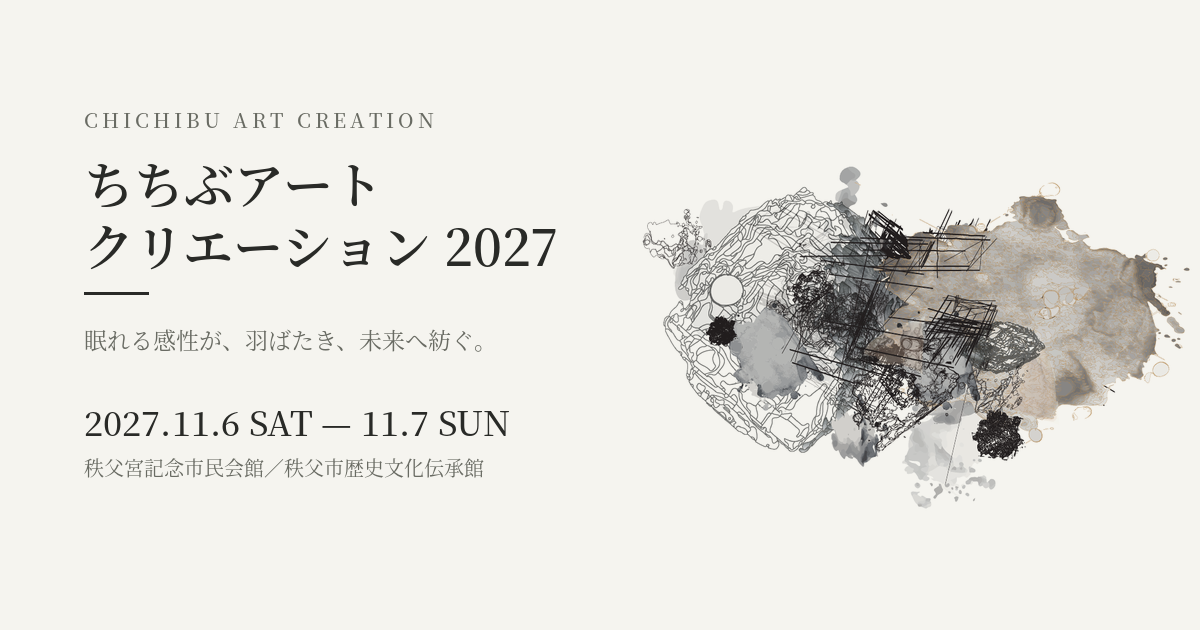
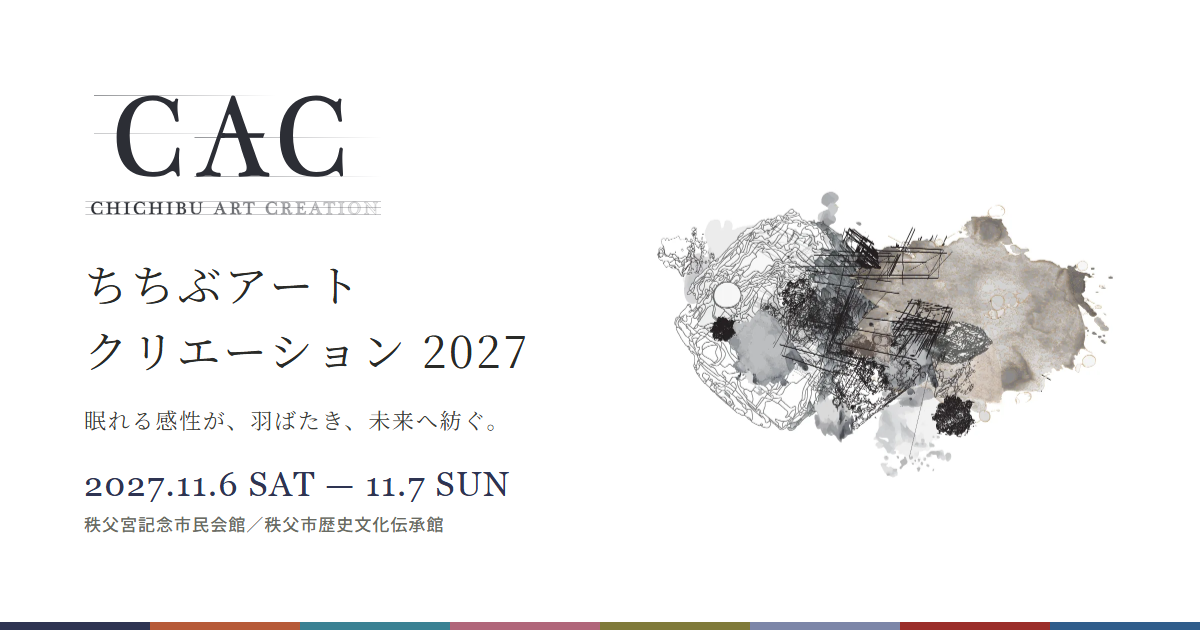
art: リリース前の調整。トップの応募締切を1月15日に、お知らせの公開済み項目を整理、OGP画像を新ロゴ入りに差し替え、公募ページ専用のOGP画像を追加、サイトマップの日付を更新

diff --git a/art/index.html b/art/index.html
@@ -28,14 +28,14 @@
 <meta property="og:url" content="https://chichibu-art.jp/">
 <meta property="og:site_name" content="ちちぶアートクリエーション2027">
 <meta property="og:locale" content="ja_JP">
-<meta property="og:image" content="https://chichibu-art.jp/ogp.png">
+<meta property="og:image" content="https://chichibu-art.jp/ogp.png?v=20261008">
 <meta property="og:image:width" content="1200">
 <meta property="og:image:height" content="630">
-<meta property="og:image:alt" content="ちちぶアートクリエーション2027 キービジュアル">
+<meta property="og:image:alt" content="ちちぶアートクリエーション2027 ロゴとキービジュアル">
 <meta name="twitter:card" content="summary_large_image">
 <meta name="twitter:title" content="ちちぶアートクリエーション2027｜糸から、未来へ。">
 <meta name="twitter:description" content="秩父の絹の文化から、新しい表現を。眠れる感性が、羽ばたき、未来へ紡ぐ。2027年11月6日(土)・7日(日)、秩父宮記念市民会館・秩父市歴史文化伝承館で開催します。">
-<meta name="twitter:image" content="https://chichibu-art.jp/ogp.png">
+<meta name="twitter:image" content="https://chichibu-art.jp/ogp.png?v=20261008">
 <script type="application/ld+json">
 {
   "@context": "https://schema.org",
@@ -51,7 +51,7 @@
       "eventStatus": "https://schema.org/EventScheduled",
       "eventAttendanceMode": "https://schema.org/OfflineEventAttendanceMode",
       "url": "https://chichibu-art.jp/",
-      "image": "https://chichibu-art.jp/ogp.png",
+      "image": "https://chichibu-art.jp/ogp.png?v=20261008",
       "inLanguage": "ja",
       "location": [
         {
@@ -178,7 +178,7 @@
 <div class="call-detail">
 <p>秩父で育った繭から、反物へ。<br>あなたのデザインを、市内の織元が<br>一反の秩父銘仙に織り上げます。</p>
 <p>作品は、形として残る。<br>この先も、語り継いでいける。</p>
-<p class="deadline">応募締切 <strong>2027年1月予定</strong>
+<p class="deadline">応募締切 <strong>2027年1月15日（金）</strong>
 </p>
 <a class="button dark" href="open-call/index.html">公募について <span>↗</span>
 </a>

diff --git a/art/news/index.html b/art/news/index.html
@@ -28,14 +28,14 @@
 <meta property="og:url" content="https://chichibu-art.jp/news/">
 <meta property="og:site_name" content="ちちぶアートクリエーション2027">
 <meta property="og:locale" content="ja_JP">
-<meta property="og:image" content="https://chichibu-art.jp/ogp.png">
+<meta property="og:image" content="https://chichibu-art.jp/ogp.png?v=20261008">
 <meta property="og:image:width" content="1200">
 <meta property="og:image:height" content="630">
-<meta property="og:image:alt" content="ちちぶアートクリエーション2027 キービジュアル">
+<meta property="og:image:alt" content="ちちぶアートクリエーション2027 ロゴとキービジュアル">
 <meta name="twitter:card" content="summary_large_image">
 <meta name="twitter:title" content="お知らせ｜CAC 2027">
 <meta name="twitter:description" content="ちちぶアートクリエーション2027のお知らせ。公募や公演の最新情報をお届けします。">
-<meta name="twitter:image" content="https://chichibu-art.jp/ogp.png">
+<meta name="twitter:image" content="https://chichibu-art.jp/ogp.png?v=20261008">
 </head>
 <body>
 <header>
@@ -71,7 +71,6 @@
 <p>公募・出演者募集・公演について、決まり次第こちらでお知らせします。</p>
 <h2>今後のご案内</h2>
 <ul>
-<li>反物デザイン公募の応募要項と制作の手引き</li>
 <li>出演者（高校生〜20歳）の募集について</li>
 <li>繭アート公募展について</li>
 <li>公演内容・チケット情報</li>

diff --git a/art/open-call/index.html b/art/open-call/index.html
@@ -28,14 +28,14 @@
 <meta property="og:url" content="https://chichibu-art.jp/open-call/">
 <meta property="og:site_name" content="ちちぶアートクリエーション2027">
 <meta property="og:locale" content="ja_JP">
-<meta property="og:image" content="https://chichibu-art.jp/ogp.png">
+<meta property="og:image" content="https://chichibu-art.jp/ogp-open-call.jpg?v=20261008">
 <meta property="og:image:width" content="1200">
 <meta property="og:image:height" content="630">
-<meta property="og:image:alt" content="ちちぶアートクリエーション2027 キービジュアル">
+<meta property="og:image:alt" content="秩父銘仙 反物デザイン公募 あなたの一枚が、このまちの一反になる。">
 <meta name="twitter:card" content="summary_large_image">
 <meta name="twitter:title" content="秩父銘仙反物デザイン公募｜CAC 2027">
 <meta name="twitter:description" content="あなたのデザインを、秩父の織元が一反の秩父銘仙に織り上げます。審査員は林家たい平・野口菜美。2026年10月15日 募集開始。">
-<meta name="twitter:image" content="https://chichibu-art.jp/ogp.png">
+<meta name="twitter:image" content="https://chichibu-art.jp/ogp-open-call.jpg?v=20261008">
 </head>
 <body>
 <header>

diff --git a/art/join/index.html b/art/join/index.html
@@ -28,14 +28,14 @@
 <meta property="og:url" content="https://chichibu-art.jp/join/">
 <meta property="og:site_name" content="ちちぶアートクリエーション2027">
 <meta property="og:locale" content="ja_JP">
-<meta property="og:image" content="https://chichibu-art.jp/ogp.png">
+<meta property="og:image" content="https://chichibu-art.jp/ogp.png?v=20261008">
 <meta property="og:image:width" content="1200">
 <meta property="og:image:height" content="630">
-<meta property="og:image:alt" content="ちちぶアートクリエーション2027 キービジュアル">
+<meta property="og:image:alt" content="ちちぶアートクリエーション2027 ロゴとキービジュアル">
 <meta name="twitter:card" content="summary_large_image">
 <meta name="twitter:title" content="秩父の若者、舞台に立ちませんか。｜CAC 2027">
 <meta name="twitter:description" content="高校生から20歳までの出演者を募集します。経験は問いません。参加費は無料です。2027年11月7日、秩父宮記念市民会館の舞台に立ちませんか。">
-<meta name="twitter:image" content="https://chichibu-art.jp/ogp.png">
+<meta name="twitter:image" content="https://chichibu-art.jp/ogp.png?v=20261008">
 </head>
 <body>
 <header>

diff --git a/art/support/index.html b/art/support/index.html
@@ -28,14 +28,14 @@
 <meta property="og:url" content="https://chichibu-art.jp/support/">
 <meta property="og:site_name" content="ちちぶアートクリエーション2027">
 <meta property="og:locale" content="ja_JP">
-<meta property="og:image" content="https://chichibu-art.jp/ogp.png">
+<meta property="og:image" content="https://chichibu-art.jp/ogp.png?v=20261008">
 <meta property="og:image:width" content="1200">
 <meta property="og:image:height" content="630">
-<meta property="og:image:alt" content="ちちぶアートクリエーション2027 キービジュアル">
+<meta property="og:image:alt" content="ちちぶアートクリエーション2027 ロゴとキービジュアル">
 <meta name="twitter:card" content="summary_large_image">
 <meta name="twitter:title" content="次の世代へ、創造の場をつなぐ。｜CAC 2027">
 <meta name="twitter:description" content="秩父ではじまる芸術祭を、ともに立ち上げてくださる企業・団体・個人サポーターを募集しています。">
-<meta name="twitter:image" content="https://chichibu-art.jp/ogp.png">
+<meta name="twitter:image" content="https://chichibu-art.jp/ogp.png?v=20261008">
 </head>
 <body>
 <header>

diff --git a/art/team/index.html b/art/team/index.html
@@ -28,14 +28,14 @@
 <meta property="og:url" content="https://chichibu-art.jp/team/">
 <meta property="og:site_name" content="ちちぶアートクリエーション2027">
 <meta property="og:locale" content="ja_JP">
-<meta property="og:image" content="https://chichibu-art.jp/ogp.png">
+<meta property="og:image" content="https://chichibu-art.jp/ogp.png?v=20261008">
 <meta property="og:image:width" content="1200">
 <meta property="og:image:height" content="630">
-<meta property="og:image:alt" content="ちちぶアートクリエーション2027 キービジュアル">
+<meta property="og:image:alt" content="ちちぶアートクリエーション2027 ロゴとキービジュアル">
 <meta name="twitter:card" content="summary_large_image">
 <meta name="twitter:title" content="このまちで、ともに育てる。｜CAC 2027">
 <meta name="twitter:description" content="秩父の文化と新しい表現をつなぐ、わたしたちのご紹介。">
-<meta name="twitter:image" content="https://chichibu-art.jp/ogp.png">
+<meta name="twitter:image" content="https://chichibu-art.jp/ogp.png?v=20261008">
 </head>
 <body>
 <header>
